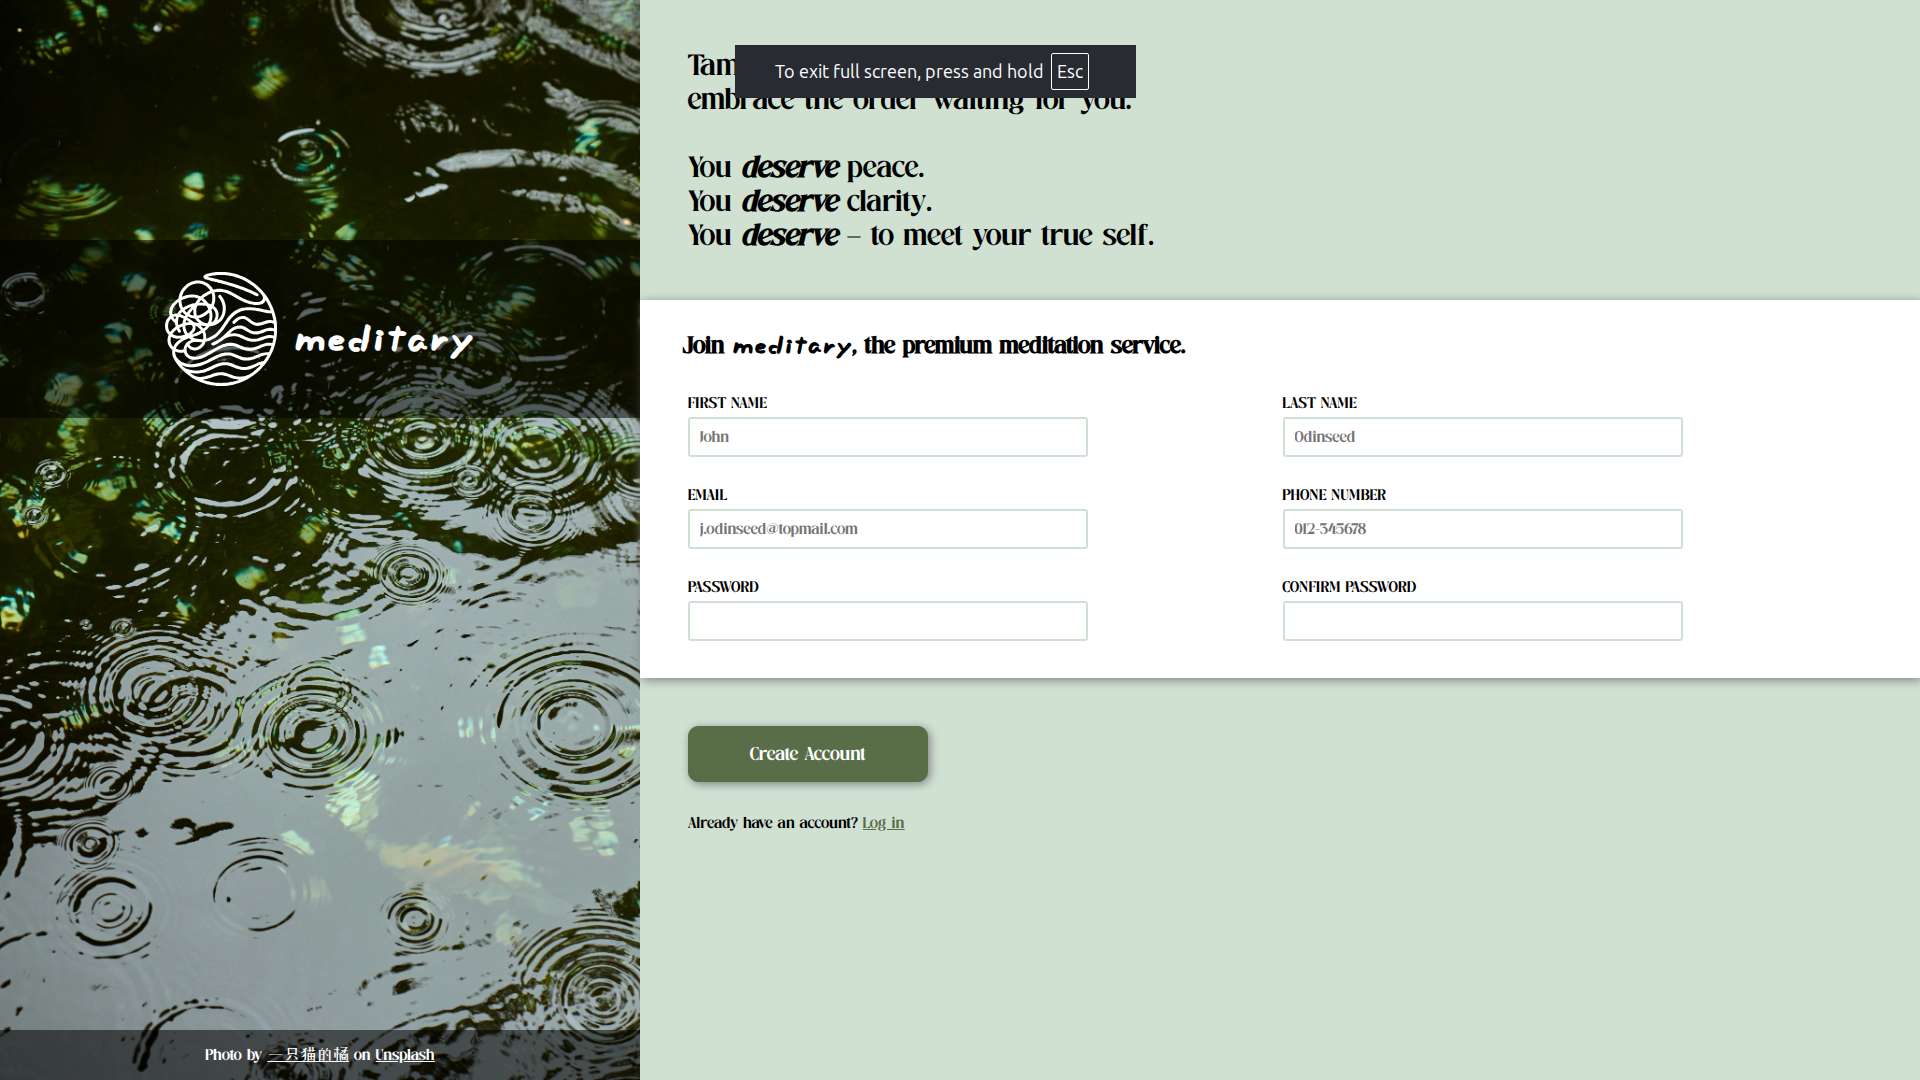
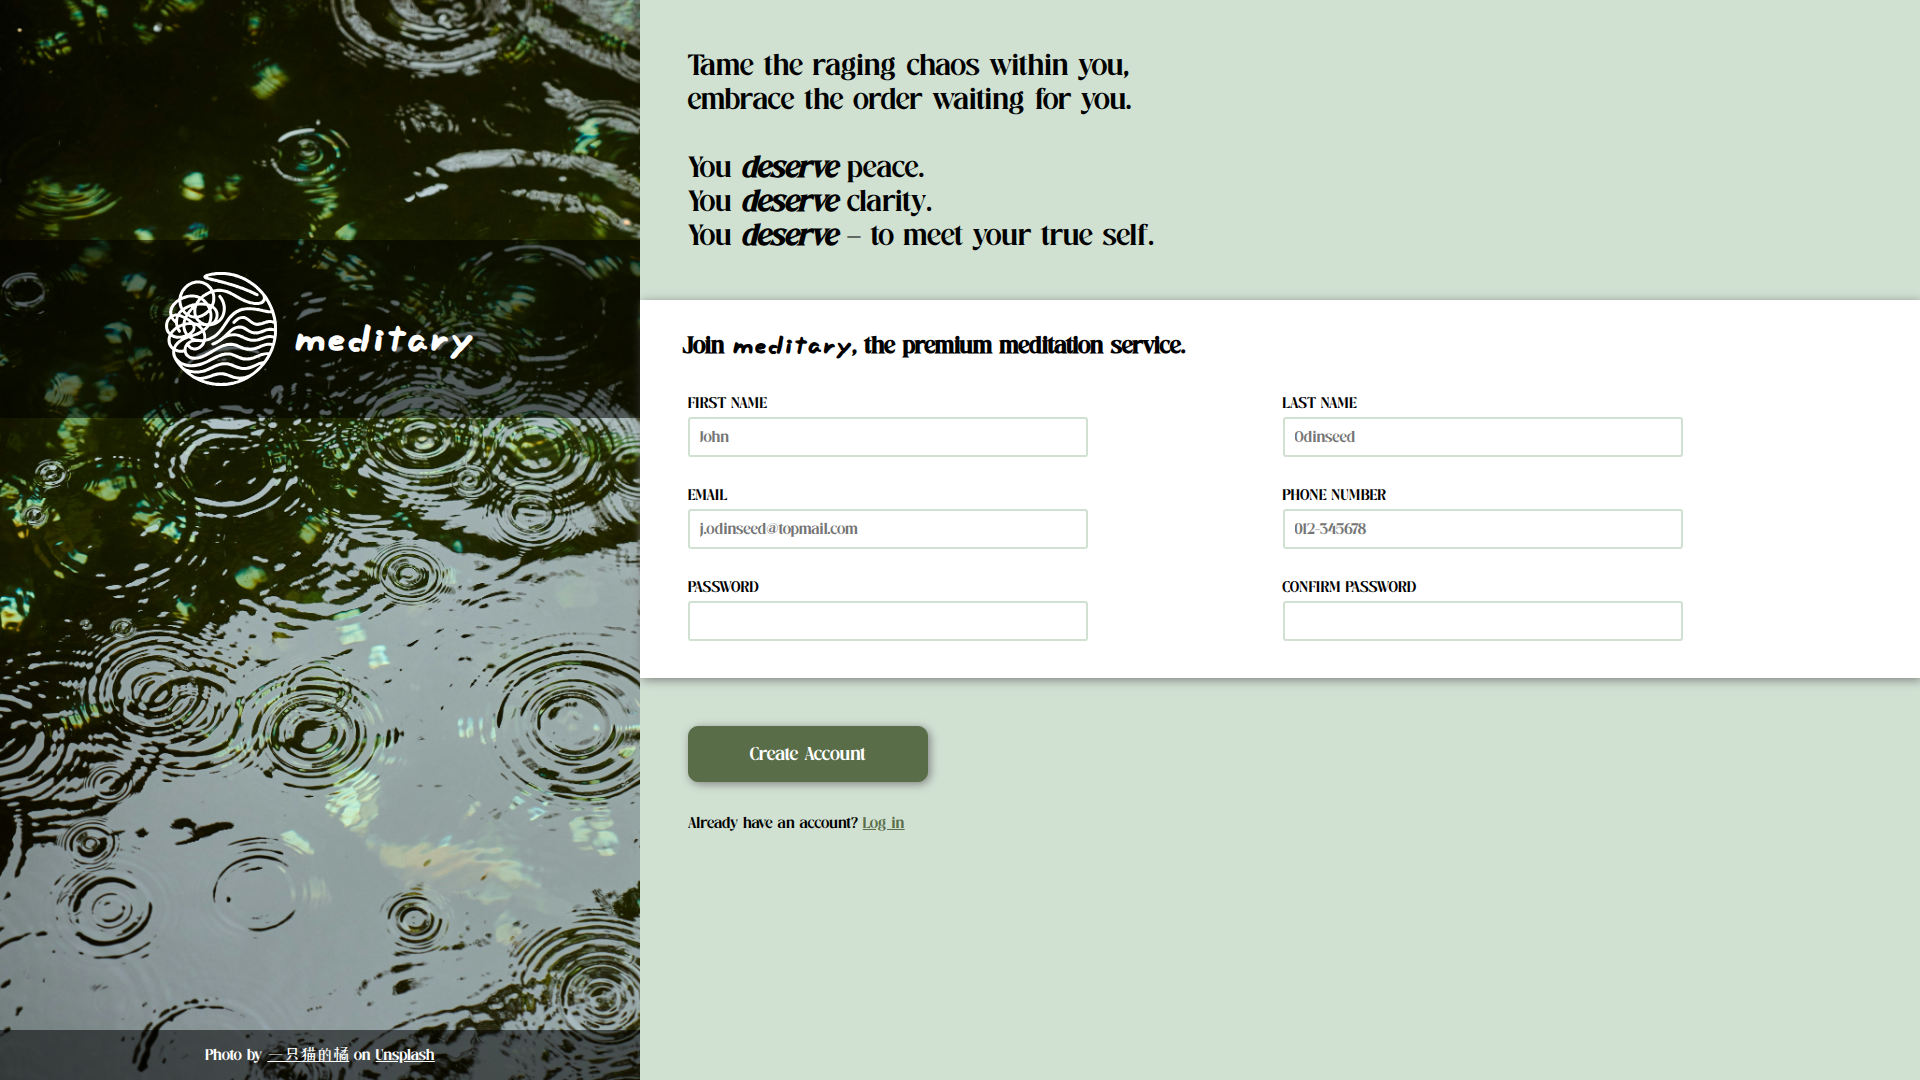
Update preview image

Changed region(s): [[0.375, 0.0306, 0.5938, 0.0917]]

diff --git a/README.md b/README.md
@@ -12,7 +12,7 @@ A stylized sign-up form built for The Odin Project to practice intermediate HTML
 
 ### Preview
 
-<img src="./img/preview.png" width="400" alt="Screenshot of the sign-up form with raindrop background">
+<img src="./img/preview.png" width="500" alt="Screenshot of the sign-up form with raindrop background">
 
 ### Credits
 
